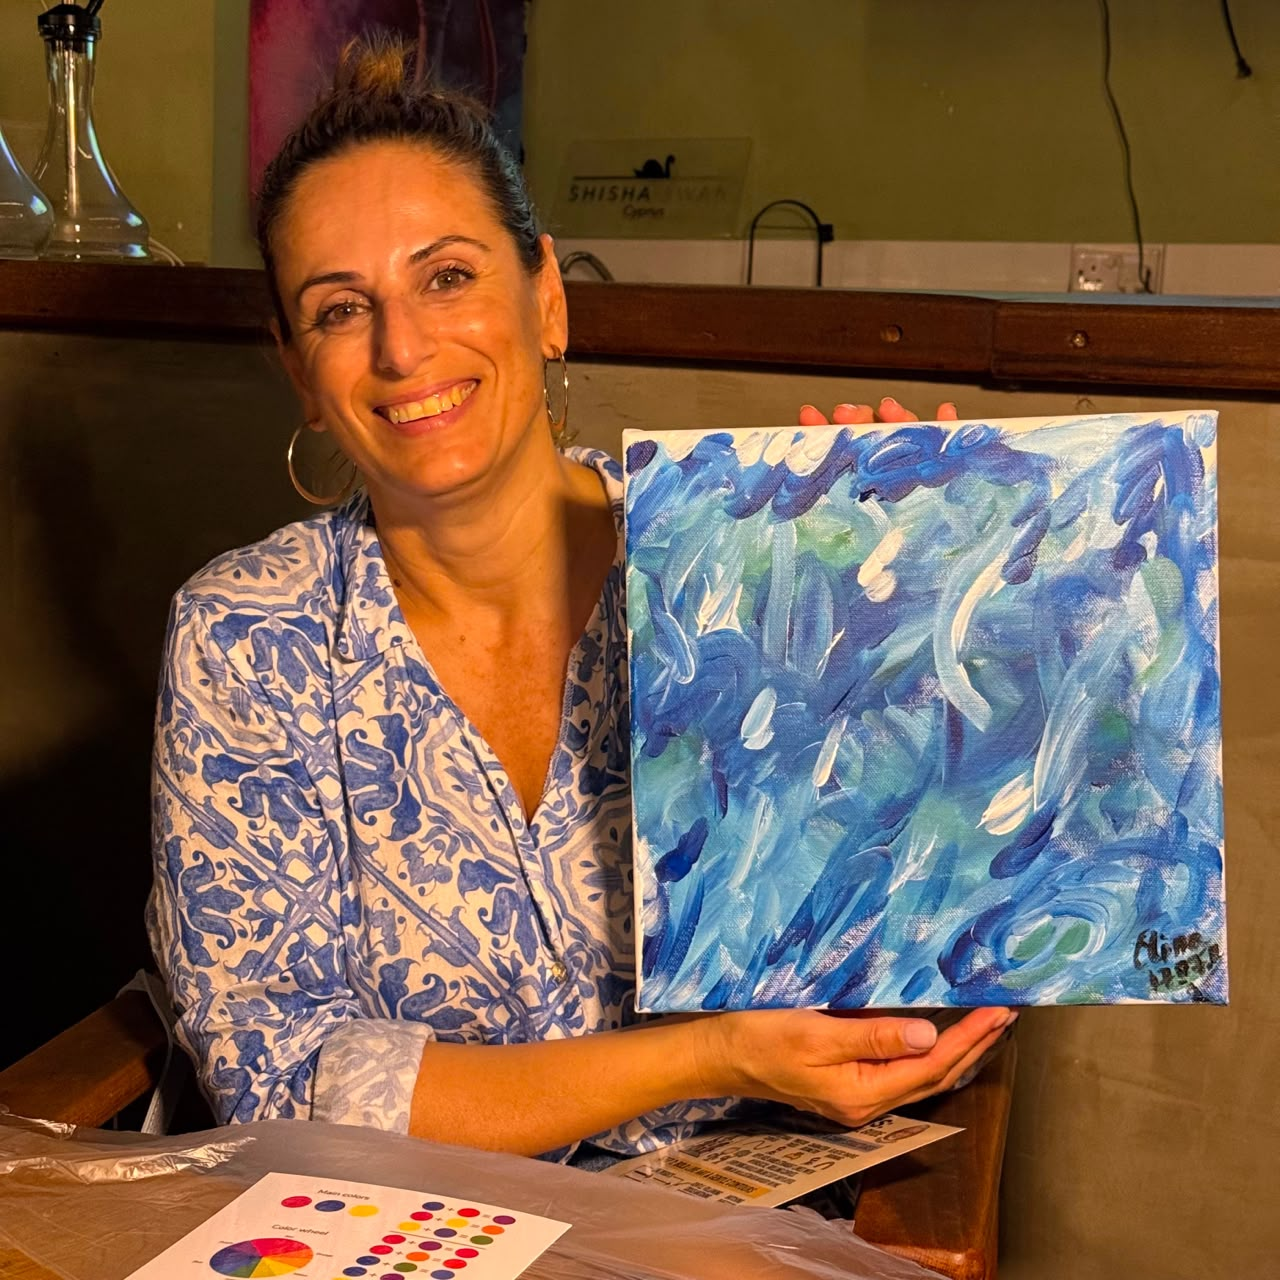
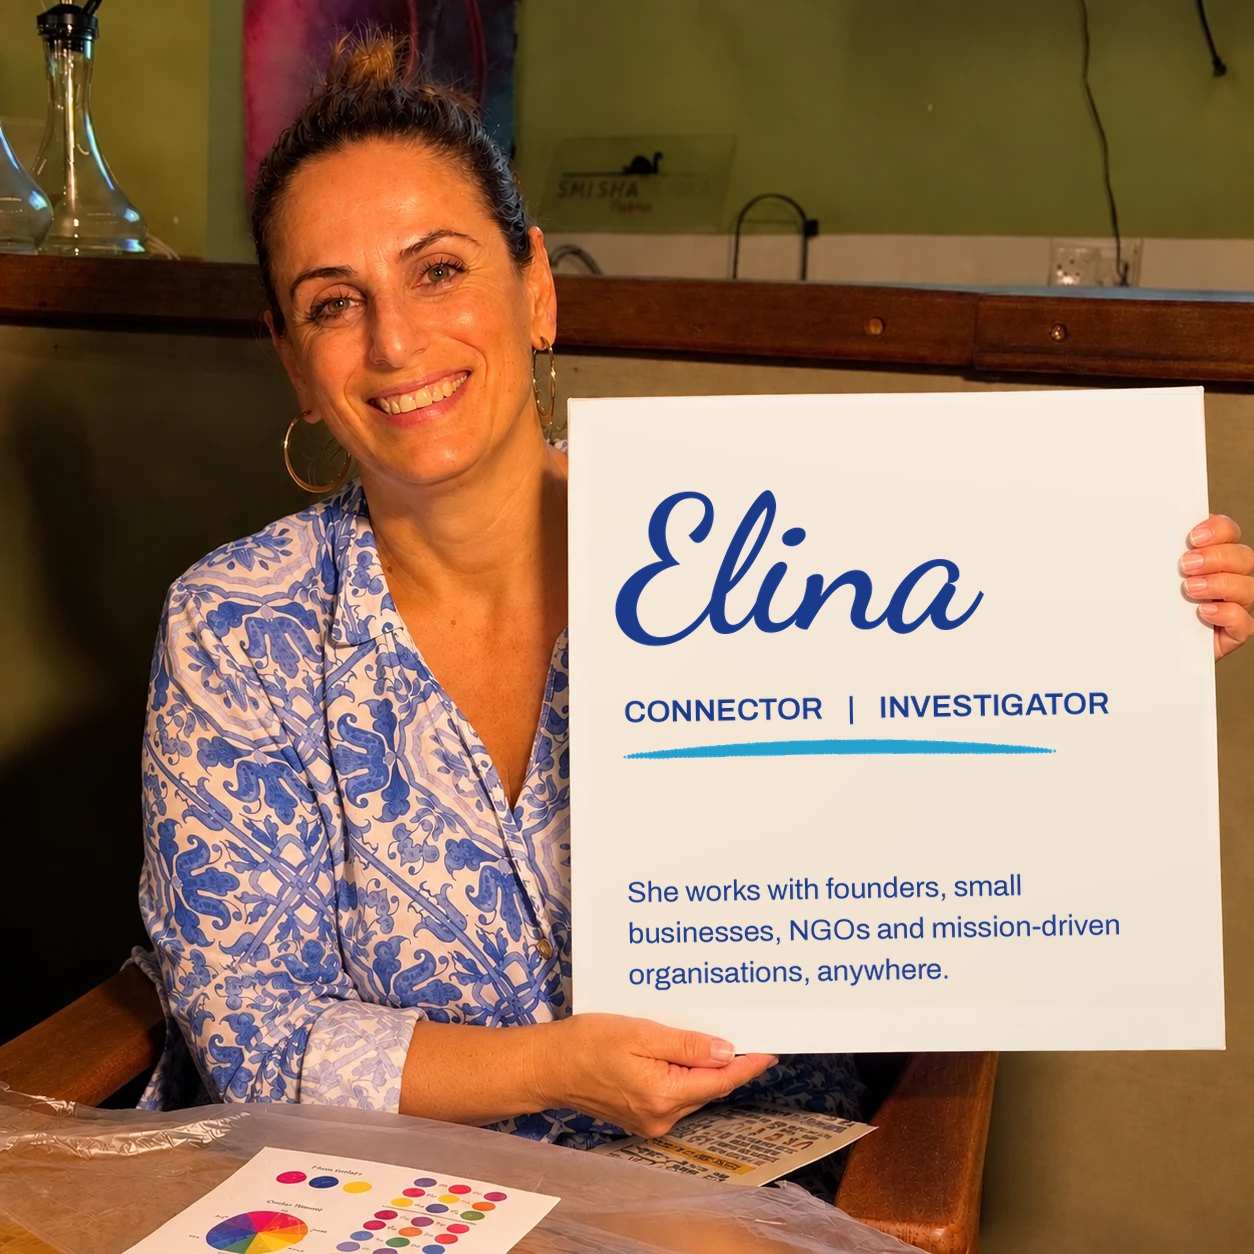
Update Elina's photo: simplified board text, square crop on Home
Claude-Session: https://claude.ai/code/session_01LSWbNiMkfdsmUp8CjWxXSn

diff --git a/elina-site/index.html b/elina-site/index.html
@@ -173,7 +173,7 @@
     <section class="section" aria-labelledby="about-title">
       <div class="container split split--media">
         <figure class="portrait reveal">
-          <img src="elina.jpg" width="1280" height="1280" loading="lazy" alt="Elina smiling and holding up a canvas painted in swirls of sea blue, green and white.">
+          <img src="elina.jpg" width="1254" height="1254" loading="lazy" alt="Elina smiling and holding a board that reads: Elina, Connector and Investigator. She works with founders, small businesses, NGOs and mission-driven organisations, anywhere.">
           <figcaption>Elina · A sea gal, based in Cyprus</figcaption>
         </figure>
 

diff --git a/elina-site/styles.css b/elina-site/styles.css
@@ -637,9 +637,9 @@ a.card:hover .card__more { color: var(--terracotta-ink); }
 }
 .portrait img {
   width: 100%;
-  aspect-ratio: 4 / 5;
+  aspect-ratio: 1 / 1;
   object-fit: cover;
-  object-position: 45% 30%;
+  object-position: center;
   border-radius: var(--radius);
 }
 .portrait figcaption {
